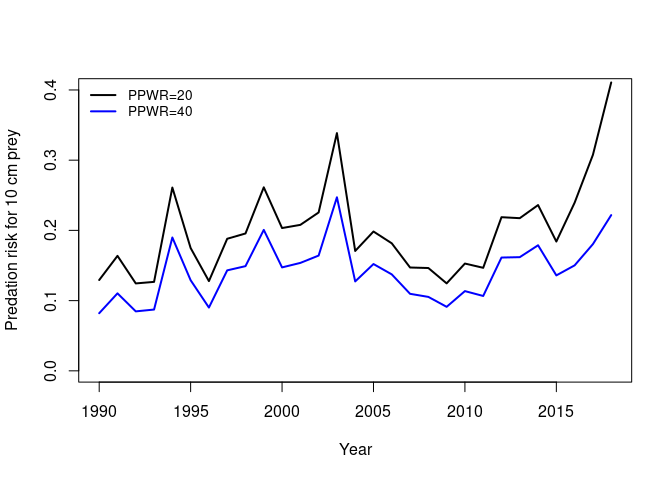
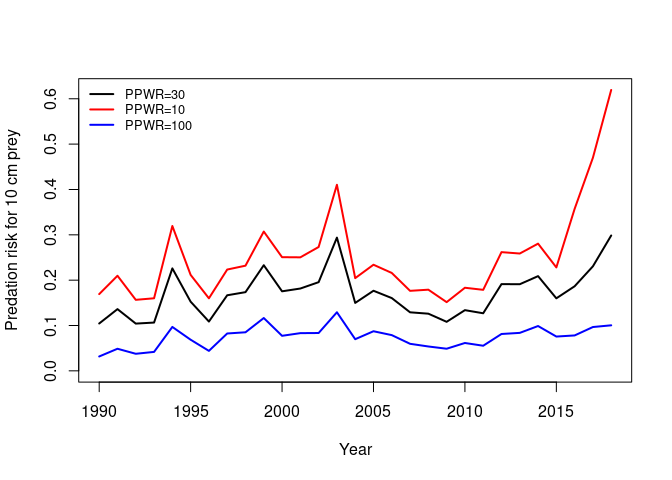
new md

diff --git a/README.md b/README.md
@@ -55,16 +55,20 @@ predators in the system in a year.
 type ?PSS.f to see why I suppressed the warnings and I do not want them
 to appear in this markdown file.
 
-    pss= suppressWarnings(PSS.f("all",PPWR=20))
+    pss= suppressWarnings(PSS.f("all",PPWR=10))
     pss.scaled= pss$pred.risk/max(pss$pred.risk)
-    plot(pss$year, pss.scaled[10,],type="l",lwd=2, ylim=c(0,.4),xlab="Year",ylab="Predation risk for 10 cm prey")
+    prey.size=10
+    plot(pss$year, pss.scaled[prey.size,],type="l",lwd=2,   ylim=c(0,max(pss.scaled[prey.size,])),col="red",xlab="Year",ylab="Predation risk for 10 cm prey")
 
-    # add a line assuming a predator/prey weight ratio of 40 instead of 20
-    pss= suppressWarnings(PSS.f("all",PPWR=40))
+    pss= suppressWarnings(PSS.f("all",PPWR=100))
     pss.scaled= pss$pred.risk/max(pss$pred.risk)
-    lines(pss$year, pss.scaled[10,],lwd=2,col="blue")
+    lines(pss$year, pss.scaled[prey.size,],lwd=2,col="blue")
 
-    legend("topleft",bty="n",lwd=2,col=c("black","blue"),lty=1,legend=c("PPWR=20","PPWR=40"),cex=0.85)
+    pss= suppressWarnings(PSS.f("all",PPWR=30))
+    pss.scaled= pss$pred.risk/max(pss$pred.risk)
+    lines(pss$year, pss.scaled[prey.size,],lwd=2,col="black")
+
+    legend("topleft",bty="n",lwd=2,col=c("black","red","blue"),lty=1,legend=c("PPWR=30","PPWR=10","PPWR=100"),cex=0.8)
 
 ![](README_files/figure-markdown_strict/PSS-1.png)
 
